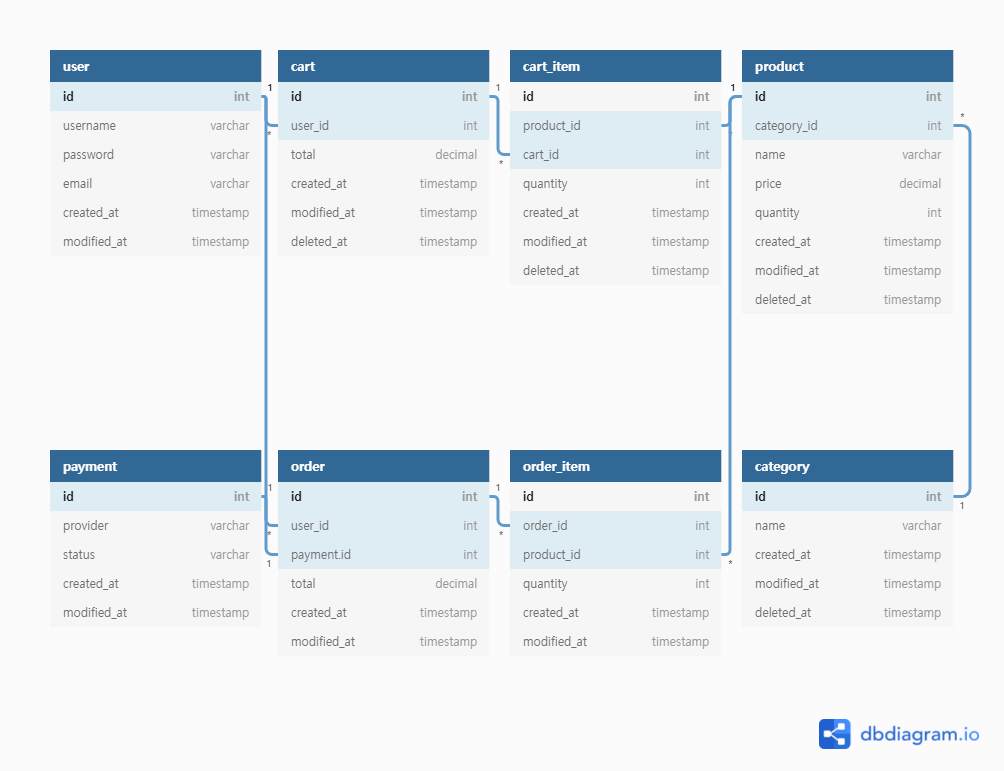
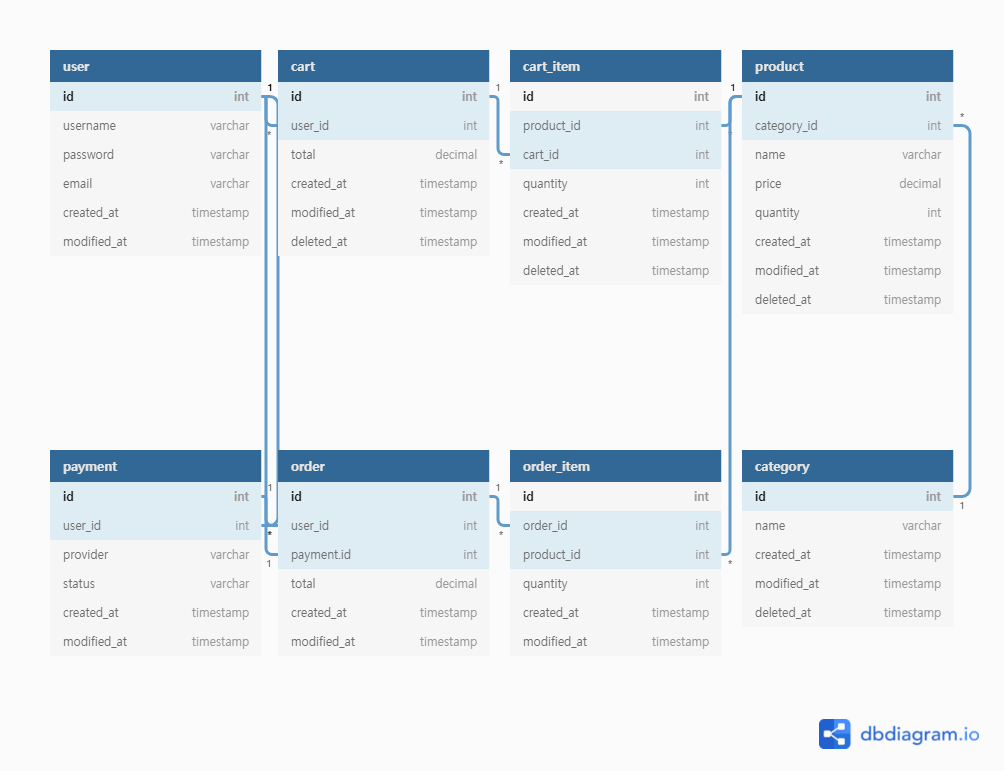
added payment controller

diff --git a/src/payment/payment.controller.spec.ts b/src/payment/payment.controller.spec.ts
@@ -1,20 +1,144 @@
 import { Test, TestingModule } from '@nestjs/testing';
 import { PaymentController } from './payment.controller';
 import { PaymentService } from './payment.service';
+import * as faker from 'faker';
+import { CreatePaymentDto } from './dto/create-payment.dto';
+import { UpdatePaymentDto } from './dto/update-payment.dto';
+import { PaymentEntity } from './entities/payment.entity';
 
 describe('PaymentController', () => {
-  let controller: PaymentController;
+  let paymentController: PaymentController;
+  let paymentService: PaymentService;
+
+  const paymentId = faker.datatype.number();
+  const userId = faker.datatype.number();
+  const username = faker.internet.userName();
+  const provider = faker.finance.creditCardNumber();
+  const updatedProvider = faker.finance.creditCardNumber();
+  const status = true;
+  const createdAt = faker.date.recent();
+  const updatedAt = faker.date.recent();
+  const updatedUpdatedAt = faker.date.recent();
+  const deletedAt = faker.date.recent();
+
+  const request = { user: { id: userId, username: username } };
+
+  const createPaymentDto: CreatePaymentDto = {
+    provider: provider,
+  };
+
+  const updatePaymentDto: UpdatePaymentDto = {
+    provider: updatedProvider,
+  };
+
+  const savedPayment: PaymentEntity = {
+    id: paymentId,
+    userId: userId,
+    provider: provider,
+    status: status,
+    createdAt: createdAt,
+    updatedAt: updatedAt,
+    deletedAt: undefined,
+  };
+
+  const updatedPayment: PaymentEntity = {
+    id: paymentId,
+    userId: userId,
+    provider: updatedProvider,
+    status: status,
+    createdAt: createdAt,
+    updatedAt: updatedUpdatedAt,
+    deletedAt: undefined,
+  };
+
+  const deletedPayment: PaymentEntity = {
+    id: paymentId,
+    userId: userId,
+    provider: provider,
+    status: status,
+    createdAt: createdAt,
+    updatedAt: updatedAt,
+    deletedAt: deletedAt,
+  };
 
   beforeEach(async () => {
     const module: TestingModule = await Test.createTestingModule({
       controllers: [PaymentController],
-      providers: [PaymentService],
+      providers: [
+        {
+          provide: PaymentService,
+          useValue: {
+            create: jest.fn(),
+            findOne: jest.fn(),
+            update: jest.fn(),
+            remove: jest.fn(),
+          },
+        },
+      ],
     }).compile();
 
-    controller = module.get<PaymentController>(PaymentController);
+    paymentController = module.get<PaymentController>(PaymentController);
+    paymentService = module.get<PaymentService>(PaymentService);
   });
 
   it('should be defined', () => {
-    expect(controller).toBeDefined();
+    expect(paymentController).toBeDefined();
+    expect(paymentService).toBeDefined();
+  });
+
+  describe('/cart', () => {
+    it('POST', async () => {
+      const paymentServiceCreateSpy = jest
+        .spyOn(paymentService, 'create')
+        .mockResolvedValue(savedPayment);
+
+      const result = await paymentController.create(request, createPaymentDto);
+
+      expect(paymentServiceCreateSpy).toHaveBeenCalledWith(
+        userId,
+        createPaymentDto,
+      );
+      expect(paymentServiceCreateSpy).toBeCalledTimes(1);
+      expect(result).toBe(savedPayment);
+    });
+
+    it('GET', async () => {
+      const paymentServiceFindOneSpy = jest
+        .spyOn(paymentService, 'findOne')
+        .mockResolvedValue(savedPayment);
+
+      const result = await paymentController.findOne(request);
+
+      expect(paymentServiceFindOneSpy).toHaveBeenCalledWith(userId);
+      expect(paymentServiceFindOneSpy).toBeCalledTimes(1);
+      expect(result).toBe(savedPayment);
+    });
+
+    it('PATCH', async () => {
+      const paymentServiceUpdateSpy = jest
+        .spyOn(paymentService, 'update')
+        .mockResolvedValue(updatedPayment);
+
+      const result = await paymentController.update(request, updatePaymentDto);
+
+      expect(paymentServiceUpdateSpy).toHaveBeenCalledWith(
+        userId,
+        updatePaymentDto,
+      );
+      expect(paymentServiceUpdateSpy).toBeCalledTimes(1);
+      expect(result).toBe(updatedPayment);
+    });
+
+    it('DELETE', async () => {
+      const paymentServiceRemoveSpy = jest
+        .spyOn(paymentService, 'remove')
+        .mockResolvedValue(deletedPayment);
+
+      const result = await paymentController.remove(request);
+
+      expect(paymentServiceRemoveSpy).toHaveBeenCalledWith(userId);
+      expect(paymentServiceRemoveSpy).toBeCalledTimes(1);
+      expect(result).toBe(deletedPayment);
+    });
   });
 });

diff --git a/src/payment/payment.controller.ts b/src/payment/payment.controller.ts
@@ -1,34 +1,43 @@
-import { Controller, Get, Post, Body, Patch, Param, Delete } from '@nestjs/common';
+import {
+  Controller,
+  Get,
+  Post,
+  Body,
+  Patch,
+  Delete,
+  UseGuards,
+  Request,
+} from '@nestjs/common';
 import { PaymentService } from './payment.service';
 import { CreatePaymentDto } from './dto/create-payment.dto';
 import { UpdatePaymentDto } from './dto/update-payment.dto';
+import { JwtAuthGuard } from '../auth/guards/jwt-auth.guard';
 
 @Controller('payment')
 export class PaymentController {
   constructor(private readonly paymentService: PaymentService) {}
 
+  @UseGuards(JwtAuthGuard)
   @Post()
-  create(@Body() createPaymentDto: CreatePaymentDto) {
-    return this.paymentService.create(createPaymentDto);
+  create(@Request() req, @Body() createPaymentDto: CreatePaymentDto) {
+    return this.paymentService.create(req.user.id, createPaymentDto);
   }
 
+  @UseGuards(JwtAuthGuard)
   @Get()
-  findAll() {
-    return this.paymentService.findAll();
+  findOne(@Request() req) {
+    return this.paymentService.findOne(req.user.id);
   }
 
-  @Get(':id')
-  findOne(@Param('id') id: string) {
-    return this.paymentService.findOne(+id);
+  @UseGuards(JwtAuthGuard)
+  @Patch()
+  update(@Request() req, @Body() updatePaymentDto: UpdatePaymentDto) {
+    return this.paymentService.update(req.user.id, updatePaymentDto);
   }
 
-  @Patch(':id')
-  update(@Param('id') id: string, @Body() updatePaymentDto: UpdatePaymentDto) {
-    return this.paymentService.update(+id, updatePaymentDto);
-  }
-
-  @Delete(':id')
-  remove(@Param('id') id: string) {
-    return this.paymentService.remove(+id);
+  @UseGuards(JwtAuthGuard)
+  @Delete()
+  remove(@Request() req) {
+    return this.paymentService.remove(req.user.id);
   }
 }

diff --git a/src/payment/payment.service.ts b/src/payment/payment.service.ts
@@ -4,23 +4,33 @@ import { UpdatePaymentDto } from './dto/update-payment.dto';
 
 @Injectable()
 export class PaymentService {
-  create(createPaymentDto: CreatePaymentDto) {
-    return 'This action adds a new payment';
+  create(userId: number, createPaymentDto: CreatePaymentDto) {
+    return new Promise(() => {
+      return '';
+    });
   }
 
-  findAll() {
-    return `This action returns all payment`;
+  findAll(userId: number) {
+    return new Promise(() => {
+      return '';
+    });
   }
 
-  findOne(id: number) {
-    return `This action returns a #${id} payment`;
+  findOne(userId: number) {
+    return new Promise(() => {
+      return '';
+    });
   }
 
-  update(id: number, updatePaymentDto: UpdatePaymentDto) {
-    return `This action updates a #${id} payment`;
+  update(userId: number, updatePaymentDto: UpdatePaymentDto) {
+    return new Promise(() => {
+      return '';
+    });
   }
 
-  remove(id: number) {
-    return `This action removes a #${id} payment`;
+  remove(userId: number) {
+    return new Promise(() => {
+      return '';
+    });
   }
 }

diff --git a/src/payment/entities/payment.entity.ts b/src/payment/entities/payment.entity.ts
@@ -1,7 +1,10 @@
+import { UserEntity } from '../../user/entities/user.entity';
 import {
   Column,
   CreateDateColumn,
+  DeleteDateColumn,
   Entity,
+  OneToOne,
   PrimaryGeneratedColumn,
   UpdateDateColumn,
 } from 'typeorm';
@@ -11,15 +14,22 @@ export class PaymentEntity {
   @PrimaryGeneratedColumn()
   id: number;
 
+  @OneToOne(() => UserEntity, (users) => users.id)
+  @Column({ name: 'user_id' })
+  userId: number;
+
   @Column()
   provider: string;
 
   @Column()
-  status: string;
+  status: boolean;
 
   @CreateDateColumn({ name: 'created_at' })
   createdAt: Date;
 
   @UpdateDateColumn({ name: 'updated_at' })
   updatedAt: Date;
+
+  @DeleteDateColumn({ name: 'deleted_at' })
+  deletedAt: Date;
 }

diff --git a/src/payment/payment.repository.ts b/src/payment/payment.repository.ts
@@ -1,0 +1,5 @@
+import { EntityRepository, Repository } from 'typeorm';
+import { PaymentEntity } from './entities/payment.entity';
+
+@EntityRepository(PaymentEntity)
+export class PaymentRepository extends Repository<PaymentEntity> {}

diff --git a/src/payment/dto/create-payment.dto.ts b/src/payment/dto/create-payment.dto.ts
@@ -3,7 +3,4 @@ import { IsNotEmpty } from 'class-validator';
 export class CreatePaymentDto {
   @IsNotEmpty()
   readonly provider: string;
-
-  @IsNotEmpty()
-  readonly status: string;
 }
